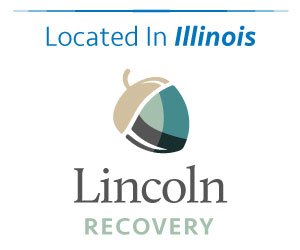
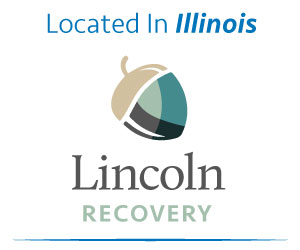
swapped learn_centers sidebar lincoln image, added wrapper around centers_cards indv element

Changed region(s): [[0.03, 0.224, 0.96, 0.98], [0.03, 0.028, 0.96, 0.196]]

diff --git a/css/scss/shortcodes/_centers_cards_carousel_image.scss b/css/scss/shortcodes/_centers_cards_carousel_image.scss
@@ -10,6 +10,10 @@
   justify-content: space-around;
 }
 
+.centers_cards_carousel .centers_cards_indv_card_wrapper {
+  width: 100%;
+}
+
 .centers_cards_carousel .centers_cards_indv_card {
   display: flex;
   flex-direction: column;
@@ -102,13 +106,13 @@
 }
 
 @media (min-width: 600px) {
-  .centers_cards_carousel .centers_cards_indv_card {
+  .centers_cards_carousel .centers_cards_indv_card_wrapper {
     width: 45%;
   }
 }
 
 @media (min-width: 1024px) {
-  .centers_cards_carousel .centers_cards_indv_card {
+  .centers_cards_carousel .centers_cards_indv_card_wrapper {
     width: 30%;
   }
 }

diff --git a/template-parts/content/shortcodes/centers_cards_carousel_image.php b/template-parts/content/shortcodes/centers_cards_carousel_image.php
@@ -27,34 +27,37 @@
             if (have_rows('centers_cards_repeater', 'option')) :
                 while (have_rows('centers_cards_repeater', 'option')) : the_row();
             ?>
-                    <div class="centers_cards_indv_card">
-                        <a href="<?php echo get_sub_field('link', 'option') ?>">
-                            <h5 class="centers_cards_indv_card_state"><?php echo get_sub_field('state', 'option') ?></h5>
-                        </a>
-                        <div class="glide centers_cards_carousel_image_glide">
-                            <div class="glide__track" data-glide-el="track">
-                                <ul class="glide__slides">
-                                    <?php if (have_rows('centers_cards_repeater_images', 'option')) : ?>
-                                        <?php while (have_rows('centers_cards_repeater_images', 'option')) : the_row(); ?>
-                                            <li class="glide__slide">
-                                                <img src="<?php echo get_sub_field('image', 'option')['url'] ?>" alt="">
-                                            </li>
-                                        <?php endwhile; ?>
-                                    <?php endif; ?>
-                                </ul>
+                    <div class="centers_cards_indv_card_wrapper">
+                        <div class="centers_cards_indv_card">
+                            <a href="<?php echo get_sub_field('link', 'option') ?>">
+                                <h5 class="centers_cards_indv_card_state"><?php echo get_sub_field('state', 'option') ?></h5>
+                            </a>
+                            <div class="glide centers_cards_carousel_image_glide">
+                                <div class="glide__track" data-glide-el="track">
+                                    <ul class="glide__slides">
+                                        <?php if (have_rows('centers_cards_repeater_images', 'option')) : ?>
+                                            <?php while (have_rows('centers_cards_repeater_images', 'option')) : the_row(); ?>
+                                                <li class="glide__slide">
+                                                    <img src="<?php echo get_sub_field('image', 'option')['url'] ?>" alt="">
+                                                </li>
+                                            <?php endwhile; ?>
+                                        <?php endif; ?>
+                                    </ul>
+                                </div>
+                                <div class="glide__arrows" data-glide-el="controls">
+                                    <button class="glide__arrow glide__arrow--left" data-glide-dir="<"><img src="<?php echo get_template_directory_uri() . '/images/icons/left_arrow.png'; ?>" loading="lazy" alt=""></button>
+                                    <button class="glide__arrow glide__arrow--right" data-glide-dir=">"><img src="<?php echo get_template_directory_uri() . '/images/icons/right_arrow.png'; ?>" loading="lazy" alt=""></button>
+                                </div>
                             </div>
-                            <div class="glide__arrows" data-glide-el="controls">
-                                <button class="glide__arrow glide__arrow--left" data-glide-dir="<"><img src="<?php echo get_template_directory_uri() . '/images/icons/left_arrow.png'; ?>" loading="lazy" alt=""></button>
-                                <button class="glide__arrow glide__arrow--right" data-glide-dir=">"><img src="<?php echo get_template_directory_uri() . '/images/icons/right_arrow.png'; ?>" loading="lazy" alt=""></button>
-                            </div>
+                            <a href="<?php echo get_sub_field('link', 'option') ?>">
+                                <h4><?php echo get_sub_field('center_name', 'option') ?></h4>
+                            </a>
+                            <h5 class="centers_cards_indv_card_subheadline"><?php echo get_sub_field('center_subheadline', 'option') ?></h5>
+                            <p class="centers_cards_indv_card_paragraph"><?php echo get_sub_field('center_paragraph', 'option') ?></p>
+                            <a href="<?php echo get_sub_field('link', 'option') ?>" class="centers_cards_indv_card_learn_more">Learn More</a>
                         </div>
-                        <a href="<?php echo get_sub_field('link', 'option') ?>">
-                            <h4><?php echo get_sub_field('center_name', 'option') ?></h4>
-                        </a>
-                        <h5 class="centers_cards_indv_card_subheadline"><?php echo get_sub_field('center_subheadline', 'option') ?></h5>
-                        <p class="centers_cards_indv_card_paragraph"><?php echo get_sub_field('center_paragraph', 'option') ?></p>
-                        <a href="<?php echo get_sub_field('link', 'option') ?>" class="centers_cards_indv_card_learn_more">Learn More</a>
                     </div>
+
 
             <?php
                 endwhile;
